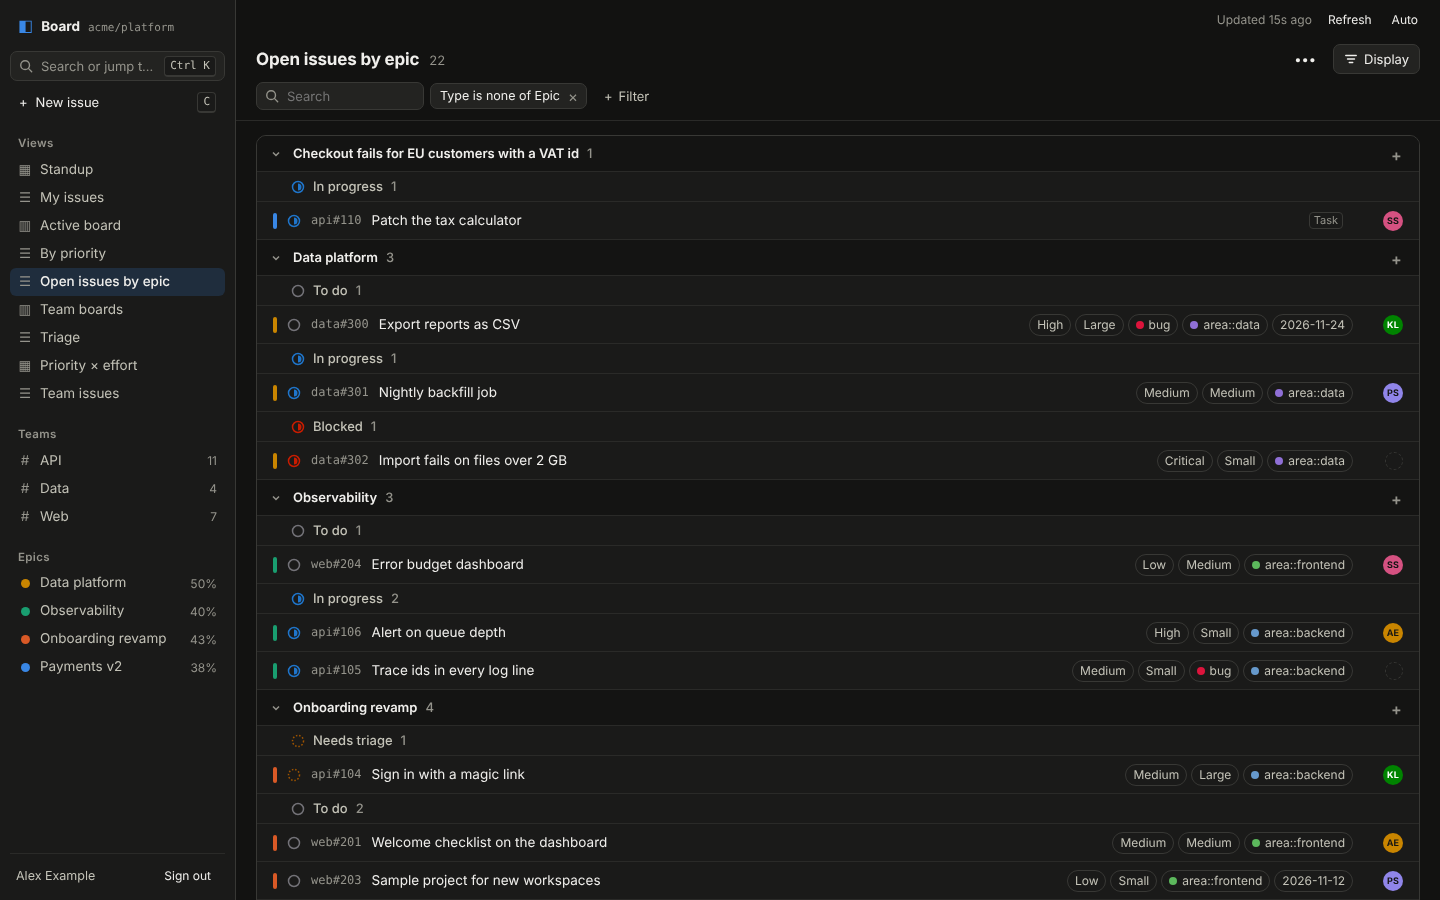
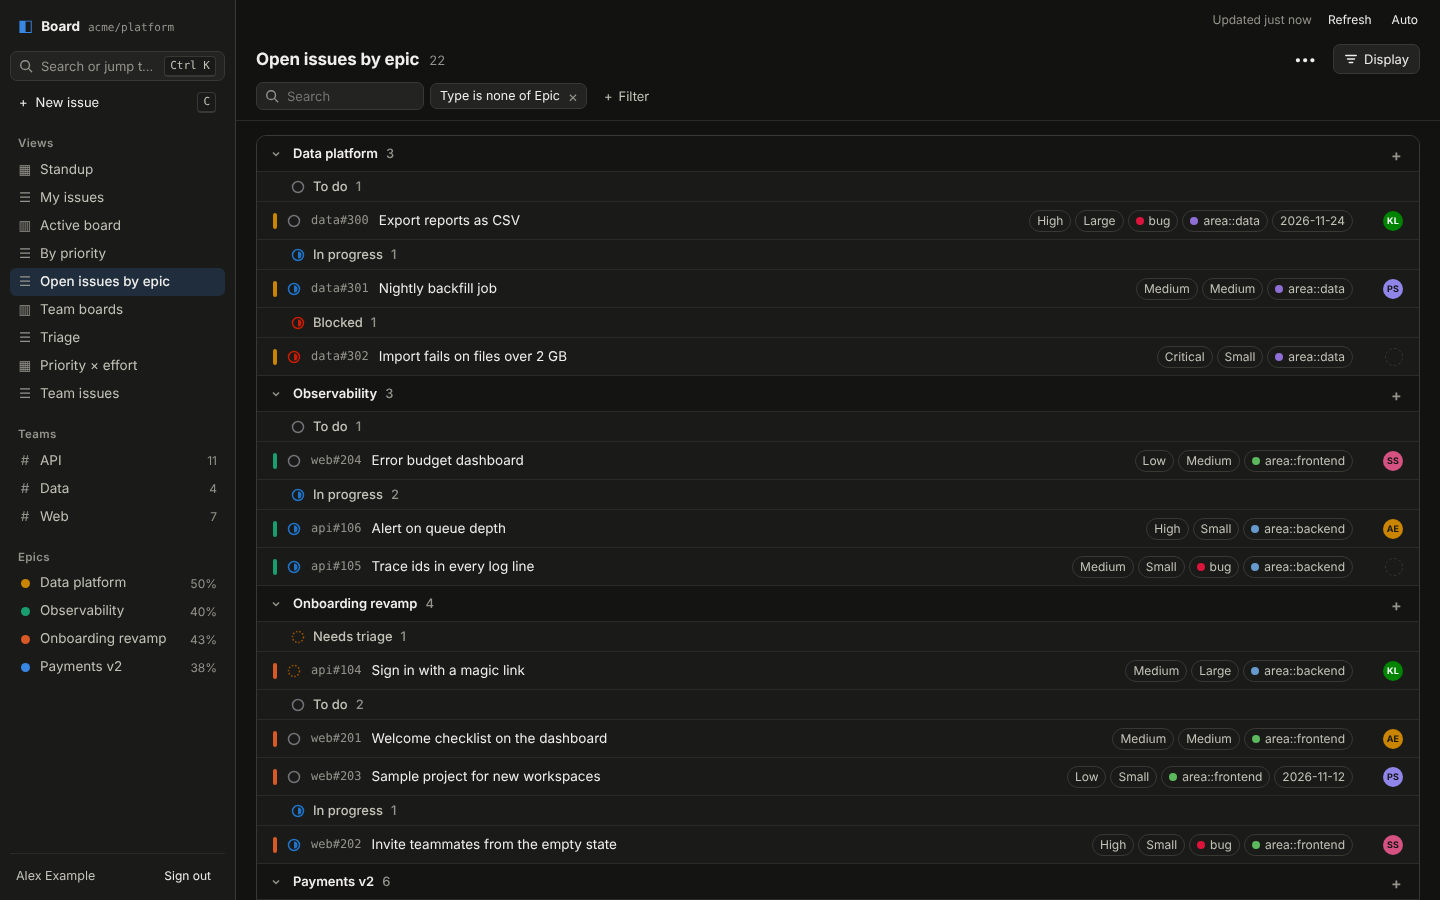
Group "Open issues by epic" by epic, not by direct parent
Add a derived, read-only native:epic field: the nearest epic above an item,
following a task through its parent issue. GitLab only returns the direct
parent, so grouping by native:parent put tasks under their issue.

- The query also asks for the parent's work item type, so an epic the board
  didn't load (e.g. closed long ago) is still recognised as an epic.
- withEpics() recomputes the field for the whole list on load and after every
  write, since a new parent on an issue also moves the tasks under it.
- "Open issues by epic" now groups by native:epic; creating from an epic
  group sets that epic as the parent.

Claude-Session: https://claude.ai/code/session_01VTP8nK6qcZg5p4toUFYCN3

diff --git a/src/lib/server/gitlab/normalize.ts b/src/lib/server/gitlab/normalize.ts
@@ -81,7 +81,7 @@ interface RawWidget {
 	weight?: number | null;
 	startDate?: string | null;
 	dueDate?: string | null;
-	parent?: { id: string; title?: string | null; state?: string | null } | null;
+	parent?: { id: string; title?: string | null; state?: string | null; workItemType?: { name: string } | null } | null;
 	rolledUpCountsByType?: { workItemType?: { name: string } | null; countsByState?: { all?: number; closed?: number } | null }[] | null;
 	status?: RawStatus | null;
 	customFieldValues?: RawCustomFieldValue[] | null;
@@ -203,7 +203,7 @@ export interface Seen {
 	types: Map<string, WorkItemTypeDef>;
 	customOptions: Map<FieldKey, { def: RawCustomFieldRef; options: Map<string, string> }>;
 	/** Parents named on items, with the title GitLab sent: covers parents the board didn't load */
-	parents: Map<string, { title: string | null; closed: boolean }>;
+	parents: Map<string, { title: string | null; closed: boolean; isEpic: boolean }>;
 }
 
 export function emptySeen(): Seen {
@@ -285,7 +285,8 @@ export function normalizeWorkItem(raw: RawWorkItem, ctx: NormalizeContext): Work
 			const prev = seen.parents.get(w.parent.id);
 			seen.parents.set(w.parent.id, {
 				title: title ?? prev?.title ?? null,
-				closed: String(w.parent.state ?? '').toUpperCase() === 'CLOSED' || !!prev?.closed
+				closed: String(w.parent.state ?? '').toUpperCase() === 'CLOSED' || !!prev?.closed,
+				isEpic: String(w.parent.workItemType?.name ?? '').toLowerCase() === 'epic' || !!prev?.isEpic
 			});
 		}
 		if (Array.isArray(w.rolledUpCountsByType)) {
@@ -397,6 +398,7 @@ export const NATIVE_NAMES: Record<string, string> = {
 	'native:iteration': 'Iteration',
 	'native:project': 'Project',
 	'native:parent': 'Parent',
+	'native:epic': 'Epic',
 	'native:type': 'Type',
 	'native:createdAt': 'Created',
 	'native:updatedAt': 'Updated'
@@ -485,6 +487,8 @@ export function normalizeSchema(raw: RawSchema, opts: { iterations: boolean }): 
 			: []),
 		native('native:project', 'ref', { options: projects.map((p, i) => ({ id: p.id, label: p.name, position: i, hint: p.fullPath })) }),
 		native('native:parent', 'ref', { options: [], editable: true }),
+		// Derived, read-only: the nearest epic above an item (see src/lib/fields/epic.ts). Set the parent to change it.
+		native('native:epic', 'ref', { options: [] }),
 		native('native:type', 'singleSelect', {
 			options: types.map((t, i) => ({ id: t.name, label: t.name, position: i })),
 			ordered: false
@@ -586,6 +590,19 @@ export function mergeSeen(reg: FieldRegistry, seen: Seen, items: WorkItem[]): Fi
 			...candidates.map((i) => ({ id: i.id, label: i.title, hint: i.ref })),
 			...unloaded
 		].map((o, n) => ({ ...o, position: n }));
+	}
+
+	// Epic options: loaded epics, plus epics named as a parent but not loaded (e.g. closed long ago).
+	const epic = byKey.get('native:epic');
+	if (epic) {
+		const loadedEpics = items.filter((i) => i.type.toLowerCase() === 'epic');
+		const have = new Set(loadedEpics.map((i) => i.id));
+		const extra = [...seen.parents]
+			.filter(([id, p]) => p.isEpic && !have.has(id))
+			.map(([id, p]) => ({ id, label: p.title ? (p.closed ? `${p.title} (closed)` : p.title) : PARENT_NOT_LOADED }));
+		epic.options = [...loadedEpics.map((i) => ({ id: i.id, label: i.title, hint: i.ref })), ...extra]
+			.sort((a, b) => a.label.localeCompare(b.label))
+			.map((o, n) => ({ ...o, position: n }));
 	}
 
 	// Custom fields with values but no active definition: show them, read-only.

diff --git a/src/lib/fields/epic.test.ts b/src/lib/fields/epic.test.ts
@@ -1,0 +1,65 @@
+import { describe, expect, it } from 'vitest';
+import { item, registry, selectField } from '$lib/testing/factory';
+import { withEpics } from './epic';
+import { groupItems } from '$lib/query/engine';
+import type { WorkItem } from './types';
+
+const epicOf = (i: WorkItem) => {
+	const v = i.values['native:epic'];
+	return v?.kind === 'ref' ? v.id : null;
+};
+
+describe('native:epic (nearest epic above an item)', () => {
+	const epic = item({}, { type: 'Epic', title: 'Payments v2' });
+	const issue = item({}, { parentId: epic.id });
+	const task = item({}, { type: 'Task', parentId: issue.id });
+	const loose = item();
+	const looseTask = item({}, { type: 'Task', parentId: loose.id });
+	const underOldEpic = item({}, { parentId: 'gid://gitlab/WorkItem/9999' });
+	const underUnknown = item({}, { parentId: 'gid://gitlab/WorkItem/8888' });
+	const epicField = selectField('native:epic', 'Epic', [], {
+		kind: 'ref',
+		options: [
+			{ id: epic.id, label: 'Payments v2', position: 0 },
+			{ id: 'gid://gitlab/WorkItem/9999', label: 'Old closed epic (closed)', position: 1 }
+		]
+	});
+	const reg = registry([epicField]);
+	const out = withEpics([epic, issue, task, loose, looseTask, underOldEpic, underUnknown], reg);
+	const byId = new Map(out.map((i) => [i.id, i]));
+
+	it('goes through the parent issue: a task gets its issue\'s epic', () => {
+		expect(epicOf(byId.get(issue.id)!)).toBe(epic.id);
+		expect(epicOf(byId.get(task.id)!)).toBe(epic.id);
+	});
+
+	it('leaves epics themselves, freestanding issues and their tasks without an epic', () => {
+		expect(epicOf(byId.get(epic.id)!)).toBeNull();
+		expect(epicOf(byId.get(loose.id)!)).toBeNull();
+		expect(epicOf(byId.get(looseTask.id)!)).toBeNull();
+	});
+
+	it('uses an epic the board did not load when the registry knows it is an epic', () => {
+		expect(epicOf(byId.get(underOldEpic.id)!)).toBe('gid://gitlab/WorkItem/9999');
+		// an unloaded parent of unknown type is not assumed to be an epic
+		expect(epicOf(byId.get(underUnknown.id)!)).toBeNull();
+	});
+
+	it('keeps the identity of items whose epic did not change', () => {
+		expect(withEpics(out, reg).every((i, n) => i === out[n])).toBe(true);
+	});
+
+	it('moves the tasks too when an issue gets a new parent', () => {
+		const moved = withEpics(out.map((i) => (i.id === issue.id ? { ...i, parentId: null } : i)), reg);
+		expect(epicOf(moved.find((i) => i.id === task.id)!)).toBeNull();
+	});
+
+	it('"by epic" groups put the task with its issue under the epic', () => {
+		const groups = groupItems(out.filter((i) => i.type !== 'Epic'), epicField, { rank: { reg, fieldSettings: [], defaultDirection: 'firstHighest' }, now: new Date(), closedDaysMax: 30 }, false);
+		expect(groups.map((g) => [g.label, g.items.length])).toEqual([
+			['Payments v2', 2],
+			['Old closed epic (closed)', 1],
+			['No epic', 3]
+		]);
+	});
+});

diff --git a/src/lib/fields/epic.ts b/src/lib/fields/epic.ts
@@ -1,0 +1,47 @@
+/**
+ * The derived `native:epic` field: the nearest epic above an item.
+ *
+ * GitLab only gives each item its direct parent. A task's parent is an issue, and that issue's
+ * parent is the epic, so grouping by `native:parent` puts tasks under their issue. Views that
+ * mean "by epic" group by `native:epic` instead.
+ *
+ * The value is recomputed for the whole list whenever items change, because changing an issue's
+ * parent also changes the epic of every task under it. It's cheap: a few hundred items.
+ */
+import type { FieldRegistry, WorkItem } from './types';
+
+const MAX_DEPTH = 8;
+const isEpic = (i: WorkItem) => i.type.toLowerCase() === 'epic';
+
+/** Id of the nearest epic above `item`, or null (no epic, or the chain leaves the loaded data). */
+export function epicIdOf(item: WorkItem, byId: Map<string, WorkItem>, knownEpics: Set<string>): string | null {
+	if (isEpic(item)) return null;
+	let parentId = item.parentId;
+	for (let depth = 0; parentId && depth < MAX_DEPTH; depth++) {
+		const parent = byId.get(parentId);
+		if (!parent) return knownEpics.has(parentId) ? parentId : null; // e.g. an epic closed long ago
+		if (isEpic(parent)) return parent.id;
+		parentId = parent.parentId;
+	}
+	return null;
+}
+
+/**
+ * Items with `values['native:epic']` set (or removed) to match the hierarchy. Items whose value
+ * doesn't change keep their identity, so Svelte doesn't redraw them.
+ */
+export function withEpics(items: WorkItem[], reg: FieldRegistry): WorkItem[] {
+	const byId = new Map(items.map((i) => [i.id, i]));
+	const epicField = reg.fields.find((f) => f.key === 'native:epic');
+	const knownEpics = new Set((epicField?.options ?? []).map((o) => o.id));
+	return items.map((item) => {
+		const id = epicIdOf(item, byId, knownEpics);
+		const current = item.values['native:epic'];
+		const currentId = current?.kind === 'ref' ? current.id : null;
+		if (id === currentId) return item;
+		const values = { ...item.values };
+		if (id) values['native:epic'] = { kind: 'ref', id };
+		else delete values['native:epic'];
+		return { ...item, values };
+	});
+}

diff --git a/src/lib/client/board.svelte.ts b/src/lib/client/board.svelte.ts
@@ -6,6 +6,7 @@ import { getContext, setContext } from 'svelte';
 import { SvelteMap, SvelteSet } from 'svelte/reactivity';
 import { applyWrite, currentWriteValue, type WriteField, type WriteValue } from '$lib/fields/apply';
 import { EpicColors } from '$lib/colors';
+import { withEpics } from '$lib/fields/epic';
 import { formatValue, optionById, resolveField, statusOption } from '$lib/fields/registry';
 import type { BoardData, FieldDef, FieldKey, FieldRegistry, OptionDef, WorkItem } from '$lib/fields/types';
 import type { RankContext } from '$lib/query/rank';
@@ -40,12 +41,15 @@ export class BoardState {
 	setData(data: BoardData) {
 		this.data = data;
 		// Keep optimistic values for items with a write still in flight.
-		this.items = this.pending.size ? data.items.map((i) => (this.pending.has(i.id) ? (this.byId.get(i.id) ?? i) : i)) : data.items;
+		const items = this.pending.size ? data.items.map((i) => (this.pending.has(i.id) ? (this.byId.get(i.id) ?? i) : i)) : data.items;
+		this.items = withEpics(items, data.registry);
 	}
 
 	private replace(item: WorkItem) {
 		const i = this.items.findIndex((x) => x.id === item.id);
-		this.items = i === -1 ? [item, ...this.items] : this.items.map((x) => (x.id === item.id ? item : x));
+		const items = i === -1 ? [item, ...this.items] : this.items.map((x) => (x.id === item.id ? item : x));
+		// Recompute for everyone: a new parent on an issue also moves the tasks under it.
+		this.items = withEpics(items, this.reg);
 	}
 
 	/**

diff --git a/src/lib/server/gitlab/normalize.test.ts b/src/lib/server/gitlab/normalize.test.ts
@@ -180,6 +180,29 @@ describe('mergeSeen', () => {
 		expect(opts.map((o) => o.position)).toEqual([0, 1]);
 	});
 
+	it('lists loaded epics and unloaded parents that GitLab says are epics as Epic options', () => {
+		const s3 = emptySeen();
+		const child = (parent: Record<string, unknown>) =>
+			normalizeWorkItem(
+				{
+					id: `gid://gitlab/WorkItem/c-${Math.random()}`,
+					iid: 1,
+					title: 'child',
+					state: 'OPEN',
+					createdAt: '2026-11-01T00:00:00Z',
+					updatedAt: '2026-11-01T00:00:00Z',
+					widgets: [{ type: 'HIERARCHY', parent }]
+				} as unknown as RawWorkItem,
+				{ projectPaths, seen: s3 }
+			);
+		const kids = [
+			child({ id: 'gid://gitlab/WorkItem/999', title: 'Old closed epic', state: 'CLOSED', workItemType: { name: 'Epic' } }),
+			child({ id: 'gid://gitlab/WorkItem/997', title: 'Some issue', state: 'OPEN', workItemType: { name: 'Issue' } })
+		];
+		const opts = mergeSeen(reg, s3, kids).fields.find((f) => f.key === 'native:epic')!.options!;
+		expect(opts.map((o) => o.label)).toEqual(['Old closed epic (closed)']);
+	});
+
 	it('does not change the input registry', () => {
 		expect(reg.fields.find((f) => f.key === 'native:parent')!.options).toEqual([]);
 	});

diff --git a/src/lib/views.config.ts b/src/lib/views.config.ts
@@ -12,7 +12,7 @@
  * matrix axis splits by the option's position in GitLab's order (`split: 'half'`).
  *
  * Native field keys: native:status, native:assignees, native:labels, native:weight, native:dueDate,
- * native:startDate, native:milestone, native:iteration, native:project, native:parent, native:type,
+ * native:startDate, native:milestone, native:iteration, native:project, native:parent, native:epic, native:type,
  * native:createdAt, native:updatedAt. Custom fields: { name: '<field name>' } or { field: 'custom:<id>' }.
  *
  * Every view is validated (src/lib/query/schema.ts) by the unit tests, so a broken view fails CI.
@@ -114,7 +114,8 @@ export const defaultViews: ViewDefinition[] = defineViews([
 		description: 'Every open issue under its epic. Kiosk-friendly.',
 		layout: 'list',
 		filter: and(notEpics),
-		groupBy: { field: 'native:parent' },
+		// Epic, not parent: a task is grouped under its issue's epic, not under the issue.
+		groupBy: { field: 'native:epic' },
 		subGroupBy: STATUS,
 		orderBy: byPriority,
 		display: { ...listDisplay, completed: 'none' }

diff --git a/src/lib/server/gitlab/load.ts b/src/lib/server/gitlab/load.ts
@@ -7,6 +7,7 @@
  *
  * Two people can see different items and fields, so one viewer's data is never served to another.
  */
+import { withEpics } from '$lib/fields/epic';
 import type { BoardData, FieldRegistry, LoadProblem, WorkItem } from '$lib/fields/types';
 import { ConfigError, serverConfig, type ServerConfig } from '../config';
 import { checkServiceToken } from '../oauth';
@@ -186,9 +187,10 @@ async function fetchAll(session: Session, cfg: ServerConfig, key: string, forceS
 }
 
 function compose(cfg: ServerConfig, schema: SchemaEntry, items: ItemsEntry): BoardData {
+	const registry = mergeSeen(schema.registry, items.seen, items.items);
 	return {
-		items: items.items,
-		registry: mergeSeen(schema.registry, items.seen, items.items),
+		items: withEpics(items.items, registry),
+		registry,
 		fetchedAt: new Date(items.at).toISOString(),
 		stale: false,
 		problem: null,

diff --git a/src/lib/query/engine.ts b/src/lib/query/engine.ts
@@ -110,7 +110,7 @@ function resolveIds(field: FieldDef, values: string[], r: FieldRegistry): { ids:
 		}
 		const o = resolveOption(field, v);
 		if (o) ids.add(o.id);
-		else if (field.key === 'native:project' || field.key === 'native:parent') ids.add(v); // refs can point outside the option list
+		else if (field.key === 'native:project' || field.key === 'native:parent' || field.key === 'native:epic') ids.add(v); // refs can point outside the option list
 		else missing.push(v);
 	}
 	return { ids, missing };
@@ -413,6 +413,8 @@ function emptyLabel(field: FieldDef): string {
 			return 'Unassigned';
 		case 'native:parent':
 			return 'No parent';
+		case 'native:epic':
+			return 'No epic';
 		case 'native:project':
 			return 'No project';
 		default:

diff --git a/src/lib/server/gitlab/queries.ts b/src/lib/server/gitlab/queries.ts
@@ -134,7 +134,7 @@ fragment BoardWorkItem on WorkItem {
     ... on WorkItemWidgetWeight { weight }
     ... on WorkItemWidgetStartAndDueDate { startDate dueDate }
     ... on WorkItemWidgetHierarchy {
-      parent { id title state }
+      parent { id title state workItemType { name } }
       ${c.rolledUpCounts ? 'rolledUpCountsByType { workItemType { name } countsByState { all closed } }' : ''}
     }
     ${c.status ? `... on WorkItemWidgetStatus { status { ${statusFields(c)} } }` : ''}

diff --git a/src/lib/fields/registry.ts b/src/lib/fields/registry.ts
@@ -124,7 +124,7 @@ export const PARENT_NOT_LOADED = 'Parent not on the board';
 /** Label for a value whose option the registry doesn't know. Never throws, never returns ''. */
 export function unknownOptionLabel(field: FieldDef, id: string): string {
 	if (field.key === 'native:project') return id;
-	if (field.key === 'native:parent') return PARENT_NOT_LOADED;
+	if (field.key === 'native:parent' || field.key === 'native:epic') return PARENT_NOT_LOADED;
 	return '(removed option)';
 }
 

diff --git a/src/lib/components/Workspace.svelte b/src/lib/components/Workspace.svelte
@@ -85,7 +85,7 @@
 		let parentId = ui.createDefaults.parentId;
 		let projectId = ui.createDefaults.projectId;
 		if (g.field && g.value) {
-			if (g.field.key === 'native:parent') parentId = g.value;
+			if (g.field.key === 'native:parent' || g.field.key === 'native:epic') parentId = g.value;
 			else if (g.field.key === 'native:project') projectId = g.value;
 			else values[g.field.key] = g.value;
 		}

diff --git a/src/lib/fields/types.ts b/src/lib/fields/types.ts
@@ -18,6 +18,7 @@ export const NATIVE_FIELDS = [
 	'iteration',
 	'project',
 	'parent',
+	'epic',
 	'type',
 	'createdAt',
 	'updatedAt'
